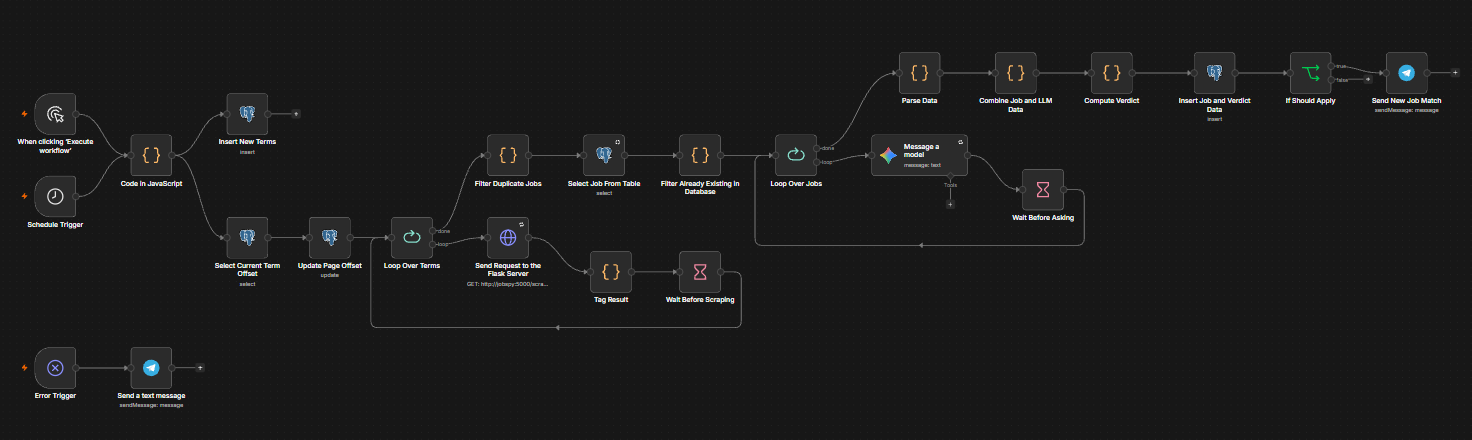
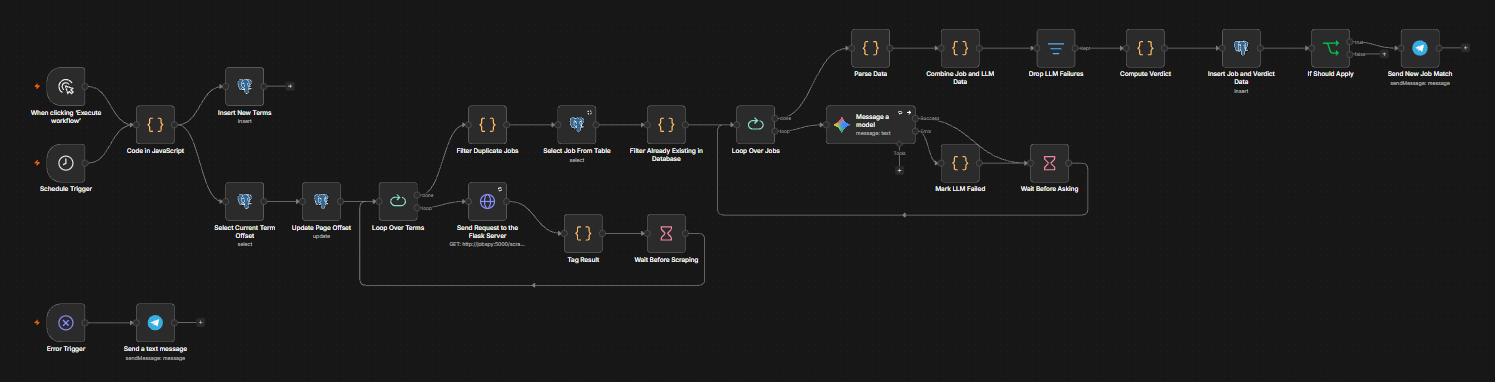
Skip failed LLM calls instead of aborting the run

diff --git a/README.md b/README.md
@@ -38,8 +38,8 @@ Two workflows, one per trigger: a scheduled **pipeline** and an event-driven **b
 3. **Loop Over Terms** → **Send Request to the Flask Server** → **Tag Search Term** (attaches the term to every job via n8n's paired-item link back to the loop)
 4. **Filter Duplicate Jobs** dedupes by `job_id` within the batch, merging `search_terms` so a job found by three terms records all three
 5. **Select Job From Table** + **Filter Already Existing in Database** drop jobs evaluated in earlier runs
-6. **Loop Over Jobs** (batch size 1) → **Message a model** (Gemini) → **Wait** (rate-limit buffer)
-7. **Parse Data** → **Combine Job and LLM Data** → **Compute Verdict** → **Insert Job and Verdict Data**
+6. **Loop Over Jobs** (batch size 1) → **Message a model** (Gemini, up to 5 tries) → **Wait Before Asking** (rate-limit buffer). If all tries fail, the error output goes to **Mark LLM Failed**, which returns a placeholder into the same loop
+7. **Parse Data** (also marks unparseable LLM output as failed) → **Combine Job and LLM Data** → **Drop LLM Failures** → **Compute Verdict** → **Insert Job and Verdict Data**
 8. **If Should Apply** (`llm_apply`) → **Send New Job Match** (Telegram, with inline buttons)
 
 The workflow is its own error workflow: if any run fails, an **Error Trigger** sends a separate 🔴 Telegram message, so a crash never looks like a quiet job market.
@@ -132,6 +132,8 @@ Applications older than 21 days with no update are reported as **ghosted** by th
 **Route on one computed string.** The bot's Switch matches a `route` field built in Parse Command, using string equality only. Boolean rules in the Switch node caused type errors and false matches.
 
 **Failures alert separately from successes.** The Error Trigger path sends its own message, distinct from "no good jobs this run."
+
+**One failed LLM call skips one job, not the whole run.** Gemini's free tier returns occasional `503 ServiceUnavailable` errors when the model is overloaded, unrelated to quota. Originally a single 503 that outlasted the retries stopped the execution, and because inserts happen after the loop, every job already scored in that run was lost. Now a failed job produces a placeholder instead of an error: Combine pairs verdicts with jobs by position, so every loop iteration must emit exactly one item, or later verdicts would silently attach to the wrong listings. Placeholders are dropped after Combine and never inserted, and since cross-run dedup only skips jobs that are stored, a skipped job is evaluated again the next time a scrape finds it. Not inserting it _is_ the retry.
 
 **Pinned test data can mask missing wiring.** Early on, a disconnected node's pinned output made every test run "work"; the first scheduled run failed because the real trigger output had no `term` field. Unpin and re-test from a cold trigger before trusting a workflow. For testing a single Code node, a scratch workflow (Manual Trigger → Code with pasted items → copy of the node) is faster and doesn't re-run upstream nodes.
 
